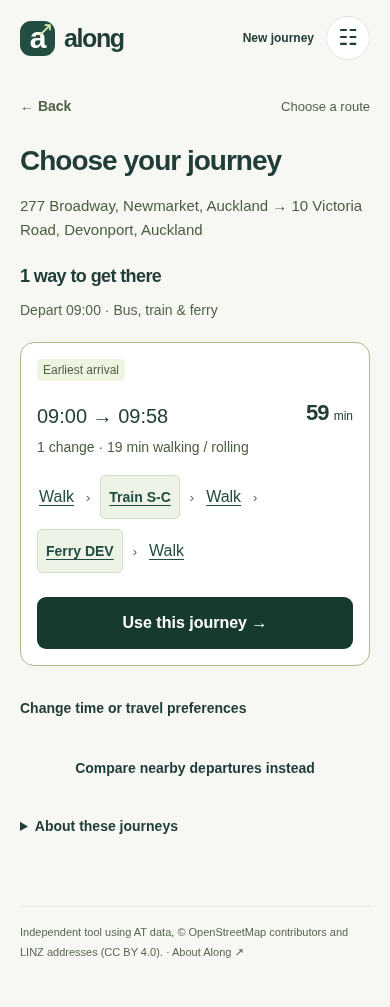
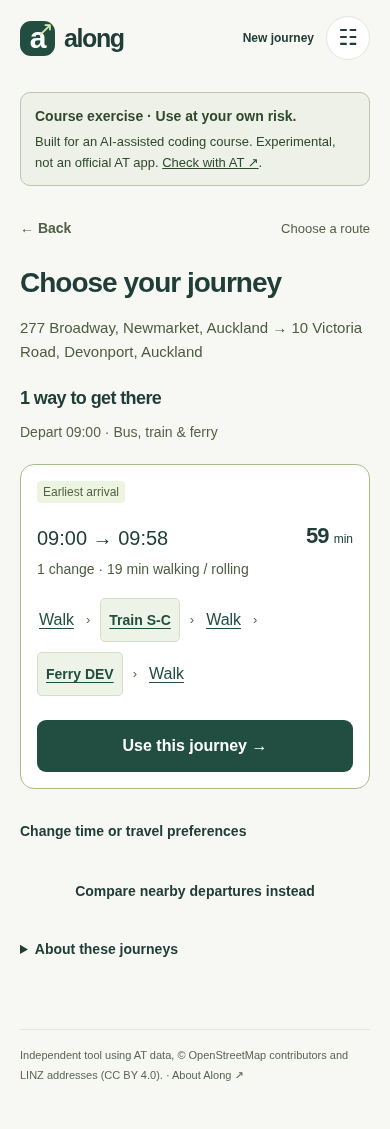
Emphasise educational status and use-at-own-risk guidance

diff --git a/public/index.html b/public/index.html
@@ -14,6 +14,7 @@
   <header class="site-header"><a class="brand" href="/" aria-label="Along home"><span class="brand-mark">a<span>↗</span></span>along</a><div class="header-right"><button class="text-button" id="new-journey" hidden>New journey</button><button class="icon-button" id="settings-open" aria-label="Settings">☷</button></div></header>
   <main id="guided-main">
     <aside id="app-update" class="update-notice" hidden aria-label="App update"><p>A new version of Along is ready.</p><button id="apply-update" class="secondary-button" type="button">Update and reopen</button><p id="update-status" role="status"></p></aside>
+    <aside class="course-notice" aria-label="Course project notice"><strong>Course exercise · Use at your own risk.</strong><p>Built for an AI-assisted coding course. Experimental, not an official AT app. <a href="https://at.govt.nz/bus-train-ferry/journey-planner" target="_blank" rel="noopener noreferrer">Check with AT ↗</a>.</p></aside>
     <nav class="flow-nav" aria-label="Journey navigation"><button id="flow-back" class="text-button" hidden>← Back</button><span id="flow-progress">Plan a journey</span></nav>
     <h1 id="flow-title" tabindex="-1">Where would you like to go?</h1>
     <p id="flow-context" class="flow-context"></p>
@@ -84,7 +85,7 @@
     <details id="journey-notes" class="journey-notes" hidden><summary>About these journeys</summary><p class="footnote">Urban Auckland street coverage. Up to 3 changes and a 4-hour search window. Walking follows mapped paths with estimated links to buildings and platforms. Kerbs, lifts and overall accessibility are not verified.</p></details>
     <footer><span>Independent tool using <a href="https://at.govt.nz/bus-train-ferry/journey-planner" target="_blank" rel="noreferrer">AT data</a>, <a href="https://www.openstreetmap.org/copyright" target="_blank" rel="noreferrer">© OpenStreetMap contributors</a> and <a href="https://data.linz.govt.nz/layer/123113-nz-addresses/" target="_blank" rel="noreferrer">LINZ addresses (CC BY 4.0)</a>. · <a href="https://github.com/reality2-ai/along" target="_blank" rel="noopener noreferrer" aria-label="About Along on GitHub (opens in a new tab)">About Along ↗</a></span></footer>
   </main>
-  <dialog id="settings"><div class="dialog-title"><h2>Your commute, your control.</h2><button class="icon-button close-dialog" aria-label="Close settings">×</button></div><p>Along learns from successful journey searches, not background tracking. Your searches, saved routes and preferences stay on this device. No account or uploaded journey history.</p><label class="setting"><input type="checkbox" id="learning-enabled"> Suggest my usual journeys</label><p class="muted">Suggestions reflect how often you search, the time of day and weekday versus weekend. You can always plan somewhere different.</p><button class="secondary-button" id="clear-history">Forget my journey history</button><p id="storage-message" role="status"></p><p id="learning-note" class="field-help"></p><hr><h3>On this device</h3><p id="data-status" role="status">Preparing timetable…</p><p id="address-status" class="field-help"></p><p id="today" class="field-help"></p><button class="secondary-button" id="alerts-open">Service updates</button><hr><p>App version 20 · <a href="./update.html">Check for an app update</a></p><p><a href="https://github.com/reality2-ai/along" target="_blank" rel="noopener noreferrer" aria-label="About Along on GitHub (opens in a new tab)">About Along on GitHub ↗</a></p><h3>Runs on your device, even without the portal.</h3><p>After preparation, Along can search and plan offline. The portal supplies downloads and updates, not your journey calculations.</p><p><a href="./install.html">Install on your device · offline and privacy guide</a></p><p id="offline-info">Downloading the AT timetable for use on this device…</p><button class="secondary-button" id="update-timetable">Update downloaded timetable</button><button class="secondary-button" id="install" hidden>Install Along</button><p class="muted">On iPhone or iPad, open the Share menu and choose Add to Home Screen. Offline storage remains subject to your browser’s storage settings.</p></dialog>
+  <dialog id="settings"><div class="dialog-title"><h2>Your commute, your control.</h2><button class="icon-button close-dialog" aria-label="Close settings">×</button></div><h3>About this course project</h3><p><strong>Use at your own risk.</strong> Along was created as an exercise for an AI-assisted coding course. It is experimental and is not an official Auckland Transport service. Routes, times, walking directions and accessibility information may be incomplete, outdated or incorrect. Check your journey and access requirements with AT before travelling.</p><p>Along learns from successful journey searches, not background tracking. Your searches, saved routes and preferences stay on this device. No account or uploaded journey history.</p><label class="setting"><input type="checkbox" id="learning-enabled"> Suggest my usual journeys</label><p class="muted">Suggestions reflect how often you search, the time of day and weekday versus weekend. You can always plan somewhere different.</p><button class="secondary-button" id="clear-history">Forget my journey history</button><p id="storage-message" role="status"></p><p id="learning-note" class="field-help"></p><hr><h3>On this device</h3><p id="data-status" role="status">Preparing timetable…</p><p id="address-status" class="field-help"></p><p id="today" class="field-help"></p><button class="secondary-button" id="alerts-open">Service updates</button><hr><p>App version 21 · <a href="./update.html">Check for an app update</a></p><p><a href="https://github.com/reality2-ai/along" target="_blank" rel="noopener noreferrer" aria-label="About Along on GitHub (opens in a new tab)">About Along on GitHub ↗</a></p><h3>Runs on your device, even without the portal.</h3><p>After preparation, Along can search and plan offline. The portal supplies downloads and updates, not your journey calculations.</p><p><a href="./install.html">Install on your device · offline and privacy guide</a></p><p id="offline-info">Downloading the AT timetable for use on this device…</p><button class="secondary-button" id="update-timetable">Update downloaded timetable</button><button class="secondary-button" id="install" hidden>Install Along</button><p class="muted">On iPhone or iPad, open the Share menu and choose Add to Home Screen. Offline storage remains subject to your browser’s storage settings.</p></dialog>
   <dialog id="alerts"><div class="dialog-title"><h2>Network service updates</h2><button class="icon-button close-dialog" aria-label="Close updates">×</button></div><div id="alerts-content" aria-live="polite"></div><a class="secondary-button" href="https://at.govt.nz/bus-train-ferry/service-announcements" target="_blank" rel="noreferrer">View AT service announcements ↗</a></dialog>
   <dialog id="information" aria-labelledby="detail-title"><button type="button" class="text-button" id="detail-back">← Back</button><h2 id="detail-title" tabindex="-1"></h2><div id="detail-body"></div></dialog>
 </body>

diff --git a/public/install.html b/public/install.html
@@ -1,4 +1,5 @@
 <!doctype html><html lang="en-NZ"><head><meta charset="utf-8"><meta name="viewport" content="width=device-width, initial-scale=1"><meta name="theme-color" content="#173e37"><title>Install Along · Offline and private</title><link rel="icon" href="./icon.svg"><link rel="stylesheet" href="./style.css"></head><body class="guided-app install-guide"><main><a class="text-button" href="./">← Open Along</a><h1>Install Along and use it offline</h1>
+<blockquote><strong>Course exercise — use at your own risk.</strong> Along was created as an exercise for an AI-assisted coding course. It is an experimental educational webapp, not an official Auckland Transport service. Routes, times, walking directions and accessibility information may be incomplete, outdated or incorrect. Check your journey and access requirements with AT before travelling.</blockquote>
 <p><strong>Along runs on your device. The portal delivers the app and updates; it does not run your journey searches. Once the app and travel data are downloaded, the core app works even when you have no connection or the portal is unavailable.</strong></p>
 <p><strong>Your journey searches, saved routes, learned routines and preferences stay in this browser on this device.</strong> No account, analytics service, uploaded journey history or background tracking is required. Along does not currently sync devices.</p>
 <h2>Prepare once, then check the installed app</h2>

diff --git a/public/update.html b/public/update.html
@@ -3,14 +3,14 @@
 <head>
   <meta charset="utf-8"><meta name="viewport" content="width=device-width, initial-scale=1">
   <meta name="theme-color" content="#173e37"><title>Update Along</title>
-  <link rel="stylesheet" href="./style.css"><script type="module" src="./updates.js?recovery=20"></script>
+  <link rel="stylesheet" href="./style.css"><script type="module" src="./updates.js?recovery=21"></script>
 </head>
 <body><main>
   <section class="welcome"><div><h1>Update Along</h1>
   <p class="intro">Get the latest app interface. Your saved journeys and downloaded travel data stay on this device.</p></div></section>
   <button id="recover-update" class="primary-button" type="button">Check for updates →</button>
   <p id="recovery-status" class="field-help" role="status">Use the same browser as your installed app. After updating, close and reopen the installed app.</p>
-  <p class="field-help">Recovery page 20. If the installed app still shows an older version, open its Settings → Check for an app update so the update runs in that app's browser.</p>
+  <p class="field-help">Recovery page 21. If the installed app still shows an older version, open its Settings → Check for an app update so the update runs in that app's browser.</p>
   <p class="field-help"><a href="./">Back to Along</a></p>
 </main></body>
 </html>

diff --git a/public/sw.js b/public/sw.js
@@ -1,4 +1,4 @@
-const CACHE = 'along-shell-v20';
+const CACHE = 'along-shell-v21';
 const SHELL = ['./install.html','./vendor/leaflet/images/layers.png','./vendor/leaflet/images/layers-2x.png','./vendor/leaflet/images/marker-icon.png','./vendor/leaflet/images/marker-icon-2x.png','./vendor/leaflet/images/marker-shadow.png','./explore.js', './vendor/leaflet/leaflet.js', './vendor/leaflet/leaflet.css', './', './style.css', './app.js', './updates.js', './worker.js', './planner.js', './streets.js', './preferences.js', './manifest.webmanifest', './icon.svg', './icons/icon-192.png', './icons/icon-512.png', './icons/maskable-512.png', './icons/apple-touch-icon.png', './icons/favicon-32.png'];
 self.addEventListener('install', event => {
   event.waitUntil(caches.open(CACHE).then(cache => cache.addAll(SHELL)));

diff --git a/public/style.css b/public/style.css
@@ -116,3 +116,5 @@ button,.secondary-button,.tab,.setting,select,input[type=date],input[type=time]{
 .install-platform{border-top:1px solid var(--line);padding:12px 0}.install-platform summary{cursor:pointer;font-size:17px;font-weight:600;min-height:44px;padding:10px 0}
 
 .guide-table:focus-visible{outline:3px solid #214e40;outline-offset:3px}
+
+.guided-app .course-notice{margin:8px 0 20px;padding:12px 14px;border:1px solid #bac5b2;border-radius:10px;background:#edf1e7;color:#30482d;font-size:13px;line-height:1.6}.guided-app .course-notice strong{font-size:14px}.guided-app .course-notice p{margin-top:4px}

diff --git a/scripts/render_install_guide.py b/scripts/render_install_guide.py
@@ -17,6 +17,7 @@ def render():
             if heading.startswith(('Chrome —','Edge —','Brave —','Safari —','Edge or Brave —')):
                 parts.append('<details class="install-platform"><summary>'+inline(heading)+'</summary>');platform_open=True
             else:parts.append('<h2>'+inline(heading)+'</h2>')
+        elif block.startswith('> '):parts.append('<blockquote>'+inline(' '.join(line.removeprefix('> ') for line in block.splitlines()))+'</blockquote>')
         elif block.startswith('1. '):
             items=re.split(r'\n(?=\d+\. )',block)
             parts.append('<ol>'+''.join('<li>'+inline(re.sub(r'^\d+\. ','',i).replace('\n',' '))+'</li>' for i in items)+'</ol>')

diff --git a/docs/RELEASE_CHECKLIST.md b/docs/RELEASE_CHECKLIST.md
@@ -1,6 +1,6 @@
 # Release evidence and remaining gates
 
-Current candidate: **version 20**, reviewed 23 September 2026. The private site and
+Current candidate: **version 21**, reviewed 23 September 2026. The private site and
 static ZIP are prepared. GitHub Pages is published at `reality2.ai/along/`; no AWS deployment has been made.
 This register separates automated evidence, user observations and remaining checks.
 
@@ -110,3 +110,12 @@ persistent Chromium profile: version 20, `/along/` worker scope, installability,
 visible Settings About link, new address journey after network disconnection and
 offline installation help. No page JavaScript errors were recorded. Physical
 installation and screen-reader observations remain separate from this result.
+
+## Version 21: course exercise and use-at-own-risk notice
+
+The README begins with an explicit educational/experimental notice. The same
+message is visible on the app's task screens, with fuller wording in Settings,
+installation guidance and the downloadable hosting README. It states that Along
+was built as an AI-assisted coding course exercise, is not an official AT service,
+and may contain incorrect or outdated route/access information. It does not
+claim that a disclaimer establishes safety, suitability or production readiness.

diff --git a/README.md b/README.md
@@ -1,5 +1,11 @@
 # Along — your Auckland commute
 
+> **Course exercise — use at your own risk.** Along was created as an exercise
+> for an AI-assisted coding course. It is an experimental educational webapp,
+> not an official Auckland Transport service. Routes, times, walking directions
+> and accessibility information may be incomplete, outdated or incorrect.
+> Check your journey and access requirements with AT before travelling.
+
 An independent, installable webapp for finding a useful next ride and planning
 street-address-to-street-address journeys across walking, buses, trains and ferries.
 After the first download, address search and scheduled routing run in your browser,

diff --git a/docs/INSTALL.md b/docs/INSTALL.md
@@ -1,5 +1,11 @@
 # Install Along and use it offline
 
+> **Course exercise — use at your own risk.** Along was created as an exercise
+> for an AI-assisted coding course. It is an experimental educational webapp,
+> not an official Auckland Transport service. Routes, times, walking directions
+> and accessibility information may be incomplete, outdated or incorrect.
+> Check your journey and access requirements with AT before travelling.
+
 **Along runs on your device. The portal delivers the app and updates; it does not
 run your journey searches. Once the app and travel data are downloaded, the core
 app works even when you have no connection or the portal is unavailable.**

diff --git a/deploy/README.md b/deploy/README.md
@@ -1,5 +1,11 @@
 # Host Along
 
+> **Course exercise — use at your own risk.** Along was created as an exercise
+> for an AI-assisted coding course. It is an experimental educational webapp,
+> not an official Auckland Transport service. Routes, times, walking directions
+> and accessibility information may be incomplete, outdated or incorrect.
+> Check your journey and access requirements with AT before travelling.
+
 This is the complete static Along webapp. Extract the ZIP and upload **its contents**
 to an HTTPS website, at either the site root or a folder such as `/along/`.
 You do not need Python or Node on the production host.

diff --git a/docs/COURSE_GUIDE.md b/docs/COURSE_GUIDE.md
@@ -1,5 +1,9 @@
 # Teaching AI-assisted coding with Along
 
+Along was created as a course exercise. It is an experimental educational app,
+provided for use at the user’s own risk; it is not an official AT service or a
+claim of production readiness. The verification work is part of the lesson.
+
 ## Aim and audience
 
 Use a working commuter app to practise turning evolving human intentions into
